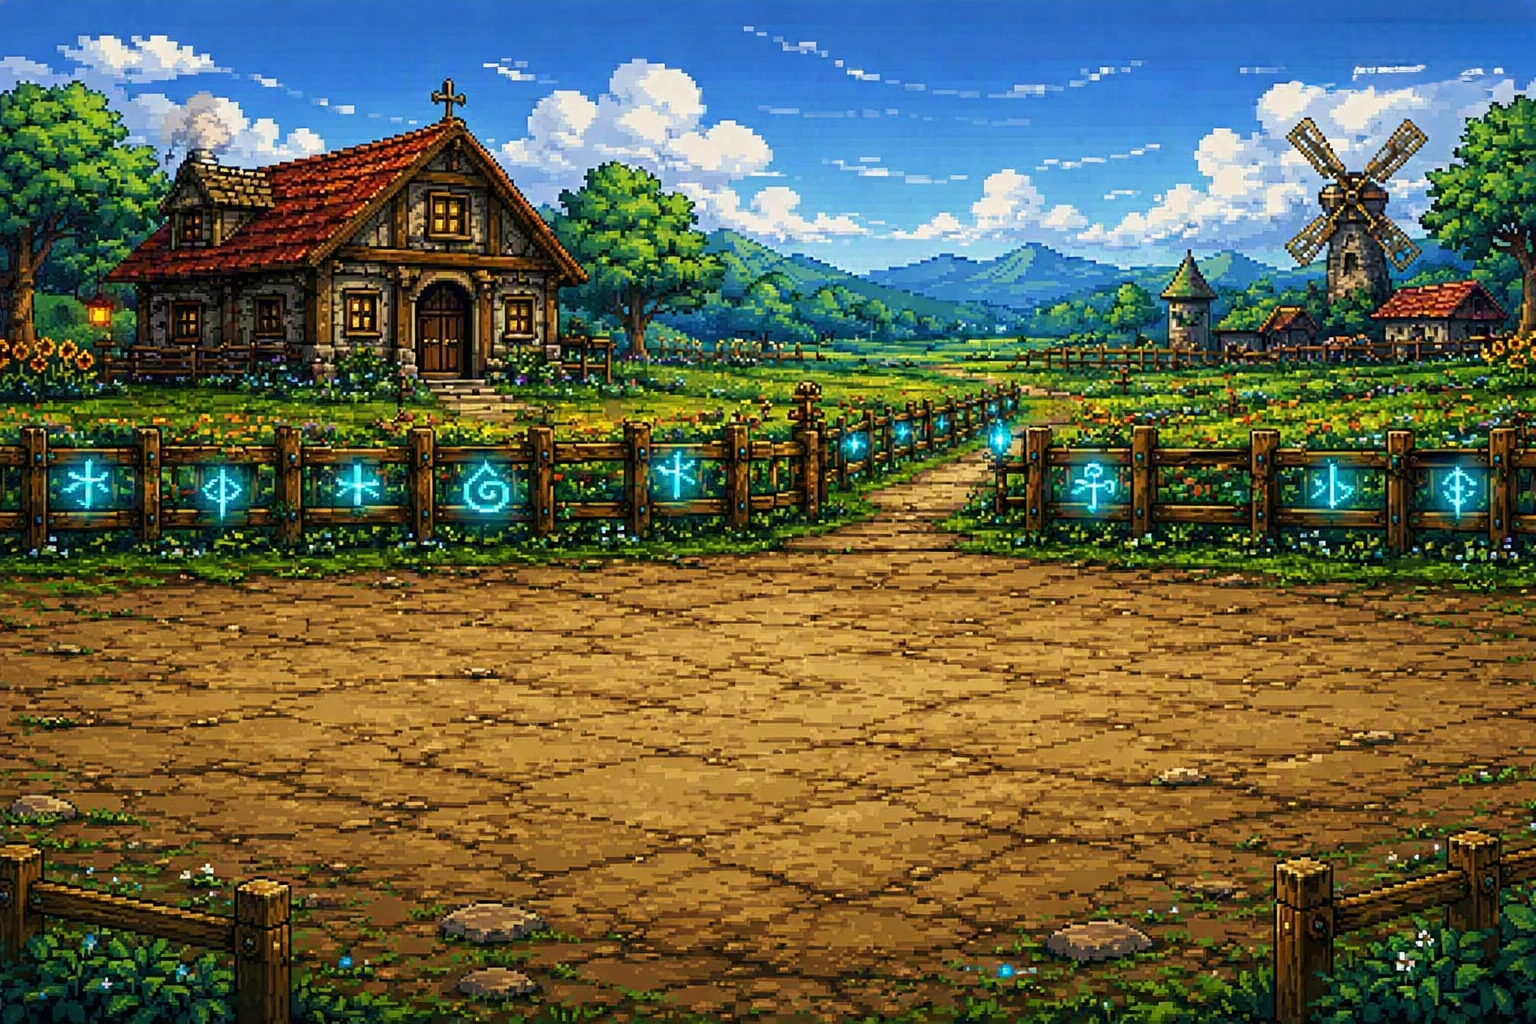
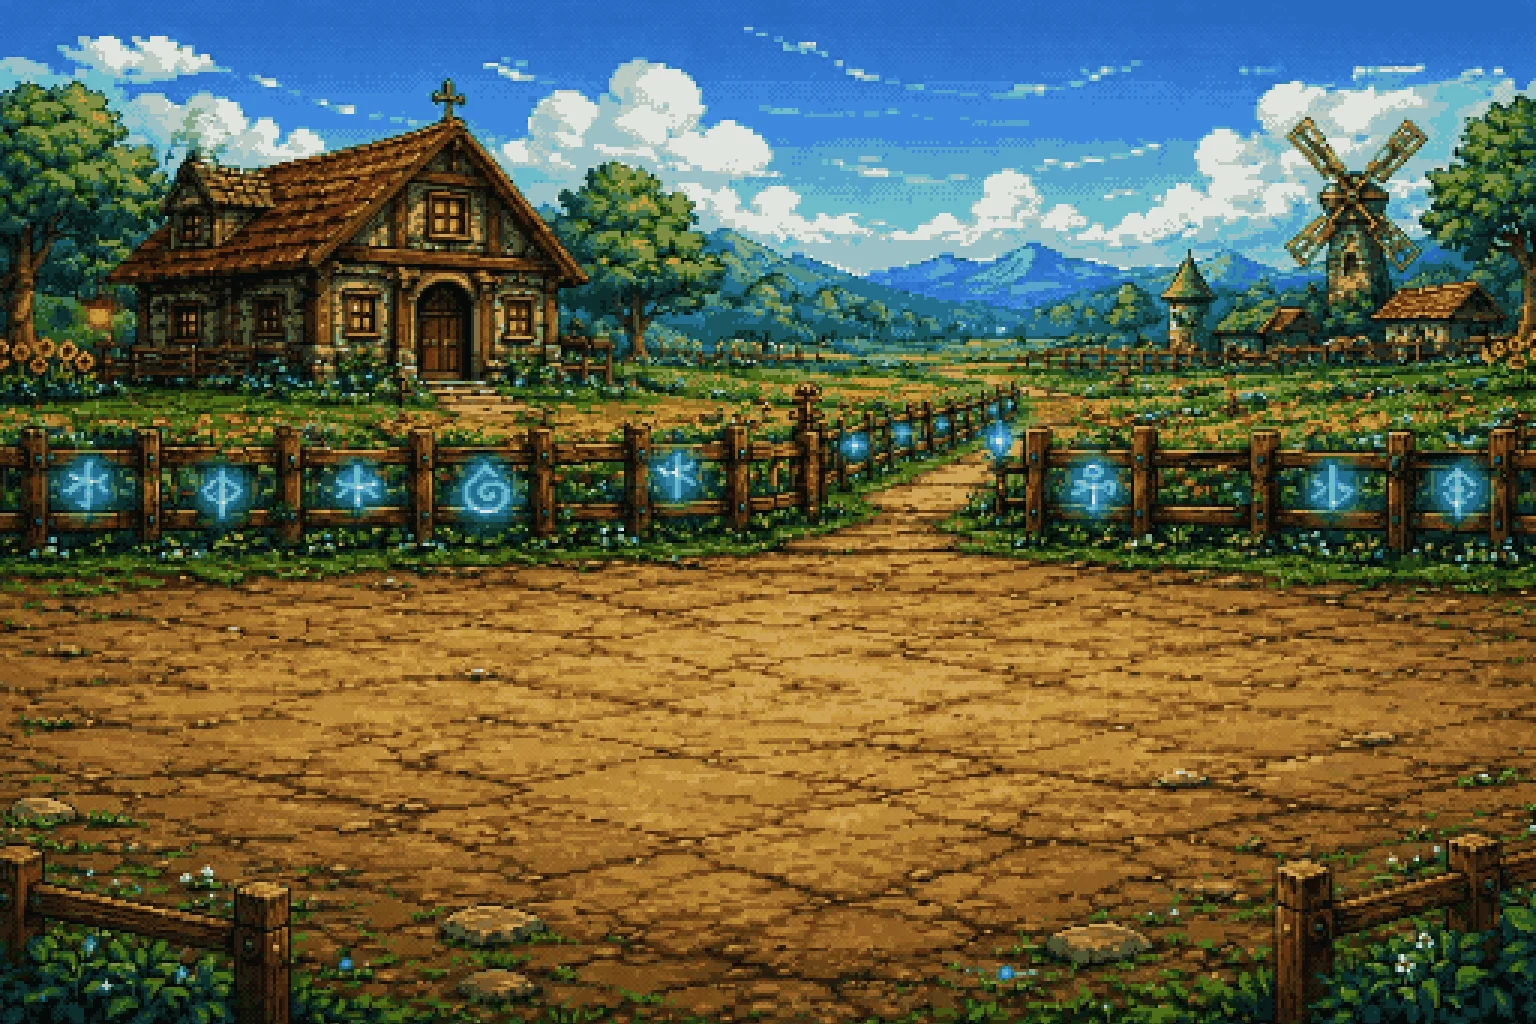
art(ffm): re-render the six stage backdrops on the level art grid

diff --git a/sites/ffm/static/promo/art/PROVENANCE.md b/sites/ffm/static/promo/art/PROVENANCE.md
@@ -428,6 +428,39 @@ regenerated during the run for exactly that).
 | `levels/level-59.webp` | image_generation tool (model not reported by tool) | `static/game/stage-6.webp` — chapter VI: blau-goldener Thronsaal | 2026-11-12 |
 | `levels/level-60.webp` | image_generation tool (model not reported by tool) | `static/game/stage-6.webp` — chapter VI: blau-goldener Thronsaal | 2026-11-12 |
 
+### stage-1…6 re-render onto the level art grid (2026-11-12)
+
+The six canonical stage backdrops were kept as the style reference while the
+sixty level backgrounds were made, and then had to be brought onto the same
+medium: measured at full size the originals carried 1–2 px detail (38–53 % of
+adjacent pixel pairs flat, 8–16 % hard jumps) while the finished levels sit on a
+3 px grid (47–61 % flat, 6–10 % jumps), so side by side the stages read as the
+finer, denser outlier.
+
+**No new generation and no re-prompting.** These are the approved compositions,
+so the fix is the identical deterministic grid pass the levels got — box-pool by
+3, quantise to 64 colours with 4×4 ordered dithering, nearest back to 1536×1024
+— applied to the existing renders and written back to the same paths, so
+`renderer.js` and `optimize-art.py` keep pointing at unchanged filenames. Tone
+is untouched: mean luminance moves by at most 1.5 levels (see the last column),
+modulo the dither. After the pass the two sets overlap (stages 47.9–55.7 % flat,
+levels 46.8–60.5 %). Still 1536×1024 lossy WebP q85, all ≤ 400 KiB.
+
+The mobile bundles under `sites/ffm/mobile/www/game/` and
+`sites/ffm/mobile/ios/App/App/public/game/` still hold the pre-snap copies and
+were deliberately left alone.
+
+| File | Model | Reference images passed in | Date |
+| --- | --- | --- | --- |
+| `stage-1.webp` | no generation — deterministic art-grid snap, same pass as `levels/` | its own previous render | 2026-11-12 |
+| `stage-2.webp` | no generation — deterministic art-grid snap, same pass as `levels/` | its own previous render | 2026-11-12 |
+| `stage-3.webp` | no generation — deterministic art-grid snap, same pass as `levels/` | its own previous render | 2026-11-12 |
+| `stage-4.webp` | no generation — deterministic art-grid snap, same pass as `levels/` | its own previous render | 2026-11-12 |
+| `stage-5.webp` | no generation — deterministic art-grid snap, same pass as `levels/` | its own previous render | 2026-11-12 |
+| `stage-6.webp` | no generation — deterministic art-grid snap, same pass as `levels/` | its own previous render | 2026-11-12 |
+
+Byte size and mean luminance before → after: stage-1 394,908→384,996 B, 97.9→96.4; stage-2 305,726→293,790 B, 100.2→98.9; stage-3 320,206→314,148 B, 72.5→71.0; stage-4 321,064→325,252 B, 142.9→141.7; stage-5 299,044→284,692 B, 53.2→52.4; stage-6 317,024→340,034 B, 45.6→44.1.
+
 ## game/assets/ — ability icons (2026-11-12)
 
 Three 256×256 transparent icons for the ability bar, drawn in the same pixel
